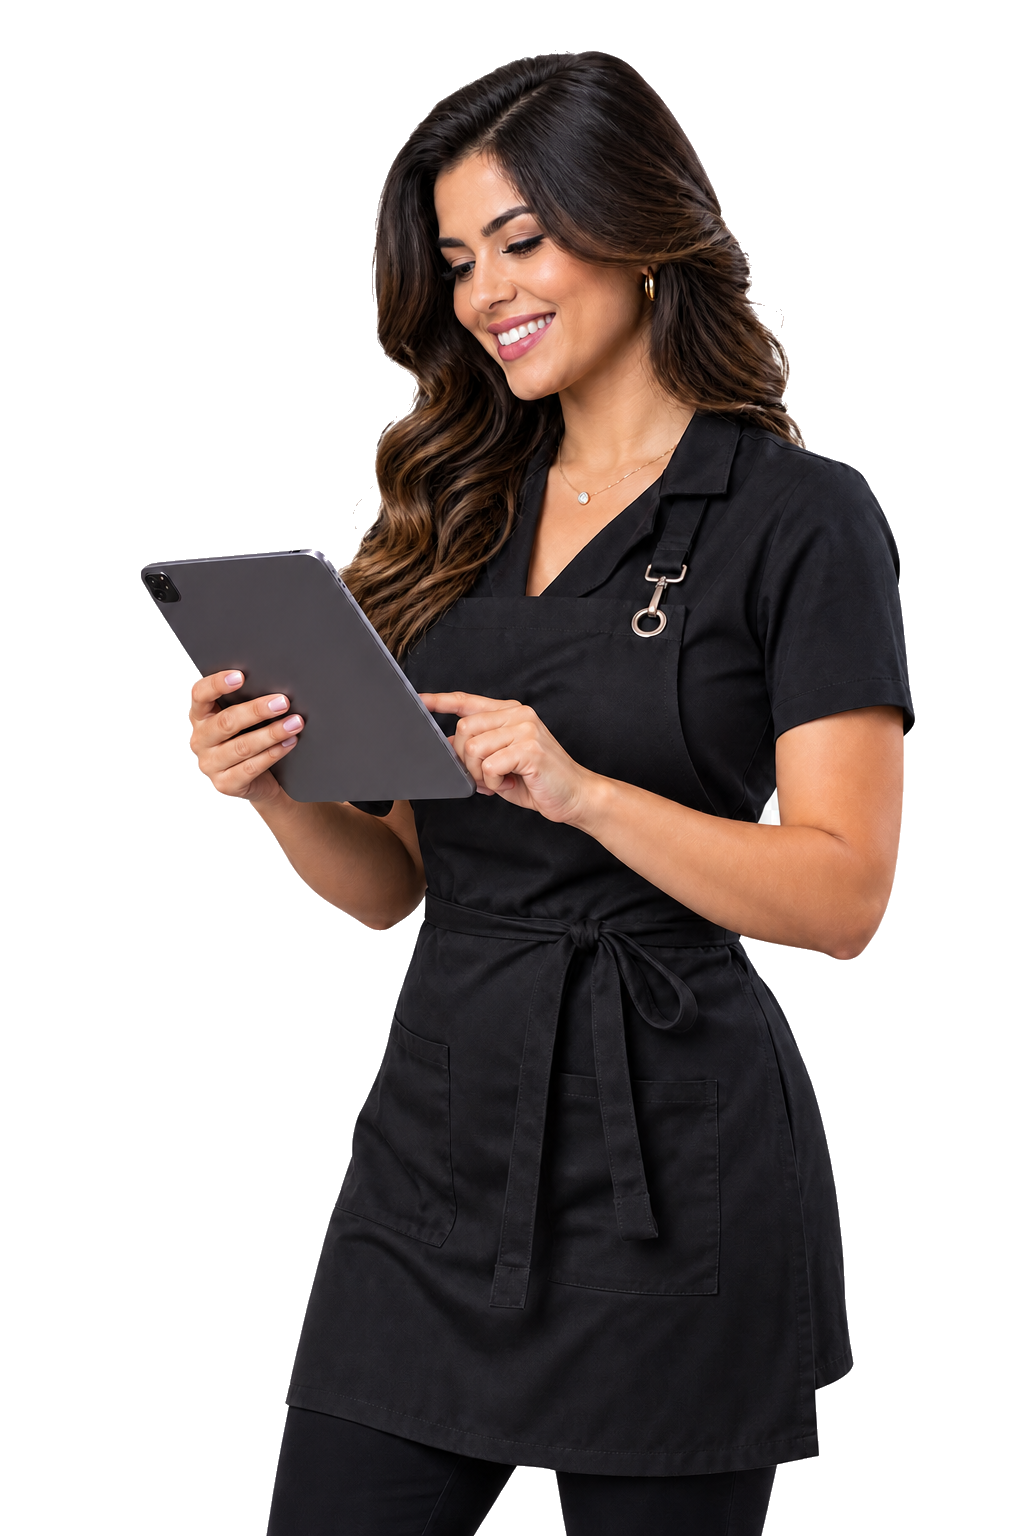
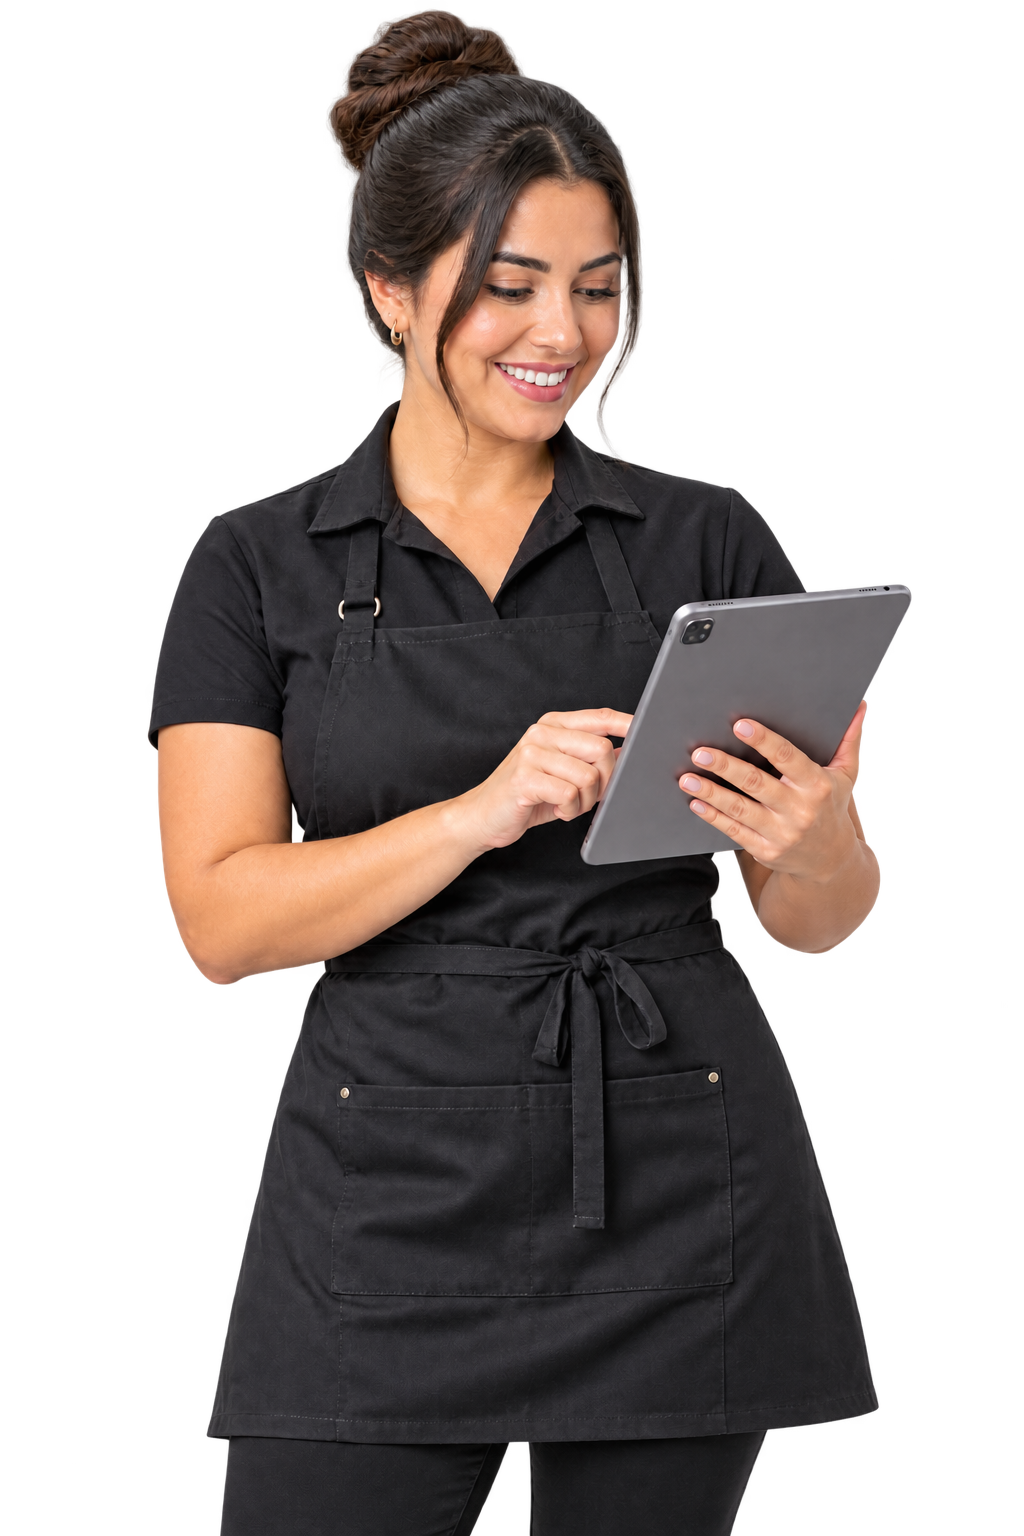
Refine sales landing visual assets

diff --git a/src/pages/public/SalesPage.tsx b/src/pages/public/SalesPage.tsx
@@ -5,7 +5,6 @@ import { motion, useReducedMotion, useScroll, useTransform } from 'framer-motion
 import { useTheme } from 'next-themes';
 import {
   ArrowRightIcon as ArrowRight,
-  BarbellIcon,
   ChartLineUpIcon as BarChart3,
   CalendarCheckIcon as CalendarDays,
   CheckIcon as Check,
@@ -45,6 +44,11 @@ import heroDashboard from '@/assets/sales/vizzu-sales-dashboard-barbershop.png';
 import heroWoman from '@/assets/sales/vizzu-sales-woman-left.png';
 import heroMan from '@/assets/sales/vizzu-sales-man-right.png';
 import mobileDashboard from '@/assets/sales/vizzu-mobile-dashboard.png';
+import marshallsBarberLogo from '@/assets/sales/trusted-logos/marshalls-barber.png';
+import studioBeautyLogo from '@/assets/sales/trusted-logos/studio-beauty.png';
+import clinicaBemEstarLogo from '@/assets/sales/trusted-logos/clinica-bem-estar.png';
+import petCareLogo from '@/assets/sales/trusted-logos/petcare.png';
+import fitnessClubLogo from '@/assets/sales/trusted-logos/fitness-club.png';
 import type { PlanConfig } from '@/types/superAdmin';
 import { DEFAULT_PUBLIC_PLANS } from '@/lib/publicPlans';
 
@@ -125,11 +129,11 @@ const proofHighlights = [
 ];
 
 const trustedBusinesses = [
-  { name: 'Marshalls', detail: 'BARBER', icon: ScissorsIcon, style: 'font-serif tracking-[0.08em]' },
-  { name: 'Studio Beauty', detail: 'BEAUTY', icon: FlowerLotusIcon, style: 'font-serif' },
-  { name: 'CLÍNICA', detail: 'BEM ESTAR', icon: StethoscopeIcon, style: 'tracking-[0.08em]' },
-  { name: 'PetCare', detail: 'CLÍNICA VETERINÁRIA', icon: PawPrintIcon, style: 'font-serif' },
-  { name: 'fitness', detail: 'CLUB', icon: BarbellIcon, style: 'tracking-[0.08em]' },
+  { name: 'Marshalls Barber', logo: marshallsBarberLogo },
+  { name: 'Studio Beauty', logo: studioBeautyLogo },
+  { name: 'Clínica Bem Estar', logo: clinicaBemEstarLogo },
+  { name: 'PetCare Clínica Veterinária', logo: petCareLogo },
+  { name: 'Fitness Club', logo: fitnessClubLogo },
 ];
 
 const heroMessages = [
@@ -245,7 +249,7 @@ const HeroShowcase = () => {
         <motion.img
           src={heroDashboard}
           alt="Dashboard VIZZU com agenda, indicadores e gestão financeira"
-          className="w-[92%] max-w-[900px] rounded-xl object-contain shadow-[0_32px_70px_-38px_rgba(15,47,107,0.48)] sm:w-[88%] sm:rounded-2xl xl:w-[86%]"
+          className="w-[104%] max-w-[1080px] rounded-xl object-contain shadow-[0_32px_70px_-38px_rgba(15,47,107,0.48)] sm:w-[103%] sm:rounded-2xl xl:w-[106%]"
           initial={reduceMotion ? false : { opacity: 0, scale: 0.97 }}
           animate={{ opacity: 1, scale: 1 }}
           transition={{ duration: 0.72, delay: 0.08, ease: [0.22, 1, 0.36, 1] }}
@@ -260,7 +264,7 @@ const HeroShowcase = () => {
         <img
           src={heroWoman}
           alt="Profissional utilizando o VIZZU em um tablet"
-          className="h-full w-auto -scale-x-100 object-contain"
+          className="h-full w-auto object-contain"
         />
       </motion.div>
       <motion.div
@@ -319,7 +323,7 @@ const SalesPage = () => {
     if (reduceMotion) return undefined;
     const messageTimer = window.setInterval(() => {
       setHeroMessageIndex((current) => (current + 1) % heroMessages.length);
-    }, 4200);
+    }, 7000);
     return () => window.clearInterval(messageTimer);
   }, [reduceMotion]);
 
@@ -358,7 +362,7 @@ const SalesPage = () => {
         </div>
       </header>
       <main>
-        <section className="relative isolate overflow-hidden px-4 pb-12 pt-7 sm:px-6 sm:pt-10 lg:min-h-[720px] lg:pb-16">
+        <section className="relative isolate overflow-hidden px-4 pb-6 pt-7 sm:px-6 sm:pb-8 sm:pt-10 lg:min-h-[680px] lg:pb-8">
           <div className="pointer-events-none absolute inset-0 -z-20 bg-white dark:bg-[radial-gradient(circle_at_16%_18%,rgba(37,99,235,0.2),transparent_34%),radial-gradient(circle_at_84%_10%,rgba(99,102,241,0.16),transparent_30%),linear-gradient(135deg,#020617_0%,#071b3e_50%,#030712_100%)]" />
           <motion.div className="pointer-events-none absolute -left-32 top-10 -z-10 h-96 w-96 rounded-full border border-blue-300/30 dark:border-blue-400/10" animate={reduceMotion ? undefined : { scale: [1, 1.08, 1], x: [0, 18, 0] }} transition={{ duration: 10, repeat: Infinity, ease: 'easeInOut' }} />
           <motion.div className="pointer-events-none absolute -right-28 top-20 -z-10 h-[420px] w-[420px] rounded-full border border-blue-300/30 dark:border-blue-400/10" animate={reduceMotion ? undefined : { scale: [1.08, 1, 1.08], y: [0, 20, 0] }} transition={{ duration: 12, repeat: Infinity, ease: 'easeInOut' }} />
@@ -382,8 +386,8 @@ const SalesPage = () => {
                   </p>
                 </div>
               </div>
-              <div className="relative h-[150px] min-[440px]:h-[125px] sm:h-[140px] lg:h-[178px]">
-                <h1 className="absolute inset-x-0 top-0 z-40 max-w-2xl text-[34px] font-black leading-[1.04] tracking-[-0.045em] min-[440px]:text-4xl sm:text-[42px] lg:text-[44px] xl:text-[48px]">
+              <div className="relative h-[175px] min-[440px]:h-[155px] sm:h-[170px] lg:h-[205px] xl:h-[210px]">
+                <h1 className="absolute inset-x-0 top-0 z-40 max-w-2xl text-balance text-[38px] font-black leading-[0.98] tracking-[-0.055em] min-[440px]:text-[42px] sm:text-[46px] lg:text-[48px] xl:text-[52px]">
                   {heroMessages[heroMessageIndex].first}{' '}
                   <span className="bg-gradient-to-r from-[#2878ef] via-[#1557b8] to-[#0F2F6B] bg-clip-text text-transparent dark:from-blue-300 dark:to-blue-100">
                     {heroMessages[heroMessageIndex].second}
@@ -408,7 +412,7 @@ const SalesPage = () => {
               <HeroShowcase />
             </div>
           </div>
-          <Reveal className="mx-auto mt-8 flex max-w-7xl flex-col gap-6 rounded-2xl border border-blue-100 bg-white px-5 py-5 shadow-[0_16px_44px_-30px_rgba(15,47,107,0.4)] sm:mt-14 sm:px-6 dark:border-white/10 dark:bg-slate-900/70 lg:flex-row lg:items-center lg:gap-8">
+          <Reveal className="mx-auto mt-3 flex max-w-7xl flex-col gap-6 rounded-2xl border border-blue-100 bg-white px-5 py-5 shadow-[0_16px_44px_-30px_rgba(15,47,107,0.4)] sm:mt-6 sm:px-6 dark:border-white/10 dark:bg-slate-900/70 lg:flex-row lg:items-center lg:gap-8">
             <div className="flex shrink-0 flex-col gap-4 sm:flex-row sm:items-center sm:gap-7">
               <div className="flex items-start gap-2.5">
                 <Star className="mt-0.5 h-5 w-5 fill-amber-400 text-amber-400" weight="fill" />
@@ -424,22 +428,22 @@ const SalesPage = () => {
             <div className="hidden h-14 w-px bg-slate-200 lg:block dark:bg-slate-700" />
             <div className="grid flex-1 grid-cols-2 items-center gap-x-5 gap-y-5 sm:grid-cols-3 lg:grid-cols-5">
               {trustedBusinesses.map((business) => (
-                <div key={business.name} className="group flex items-center justify-center gap-2 text-slate-400 grayscale transition duration-300 hover:text-slate-600 hover:grayscale-0 dark:hover:text-slate-200">
-                  <business.icon className="h-7 w-7 shrink-0 opacity-75" weight="duotone" />
-                  <div className="min-w-0 leading-none">
-                    <p className={cn('whitespace-nowrap text-sm font-semibold', business.style)}>{business.name}</p>
-                    <p className="mt-1 whitespace-nowrap text-[7px] font-bold tracking-[0.13em] opacity-75">{business.detail}</p>
-                  </div>
+                <div key={business.name} className="group flex h-14 items-center justify-center px-1">
+                  <img
+                    src={business.logo}
+                    alt={`Logo ${business.name}`}
+                    className="max-h-11 w-full max-w-[150px] object-contain opacity-55 grayscale transition duration-300 group-hover:opacity-85 dark:invert dark:opacity-65 dark:group-hover:opacity-90"
+                  />
                 </div>
               ))}
             </div>
           </Reveal>
 
-          <Reveal className="mx-auto mt-5 grid max-w-7xl gap-4 sm:mt-7 sm:grid-cols-2 lg:grid-cols-4">
+          <Reveal className="mx-auto mt-4 grid max-w-7xl gap-4 sm:mt-5 sm:grid-cols-2 lg:grid-cols-4">
             {proofHighlights.map((item) => <motion.div whileHover={reduceMotion ? undefined : { y: -6 }} key={item.label} className="flex min-h-[238px] flex-col rounded-2xl border border-blue-100 bg-white px-6 py-6 shadow-[0_18px_42px_-26px_rgba(15,47,107,0.45)] dark:border-white/10 dark:bg-slate-900/70"><span className={cn('flex h-12 w-12 shrink-0 items-center justify-center rounded-full shadow-sm', item.color)}><item.icon className="h-6 w-6" weight="duotone" /></span><div className="mt-5"><p className="text-lg font-black text-slate-950 dark:text-white">{item.value}</p><p className="mt-2 text-sm font-bold leading-5 text-slate-800 dark:text-slate-100">{item.label}</p><p className="mt-3 text-xs leading-5 text-slate-500 dark:text-slate-400">{item.detail}</p></div></motion.div>)}
           </Reveal>
 
-          <Reveal className="mx-auto mt-7 flex max-w-7xl flex-col items-start justify-between gap-5 rounded-2xl bg-gradient-to-r from-[#194fae] via-[#286fe7] to-[#17499e] px-7 py-6 text-white shadow-[0_22px_55px_-30px_rgba(29,78,216,0.75)] sm:flex-row sm:items-center">
+          <Reveal className="mx-auto mt-5 flex max-w-7xl flex-col items-start justify-between gap-5 rounded-2xl bg-gradient-to-r from-[#194fae] via-[#286fe7] to-[#17499e] px-7 py-6 text-white shadow-[0_22px_55px_-30px_rgba(29,78,216,0.75)] sm:flex-row sm:items-center">
             <div><p className="text-xl font-black text-white">Pronto para organizar seu negócio e crescer?</p><p className="mt-1 text-sm text-blue-100">Comece agora. São 7 dias grátis e você não precisa cadastrar cartão.</p></div>
             <Button size="lg" variant="secondary" className="shrink-0 rounded-xl !bg-white px-7 font-bold !text-[#174a9e] shadow-lg hover:!bg-blue-50" onClick={() => navigate('/cadastro?plano=trial')}>Testar grátis por 7 dias <ArrowRight className="ml-2 h-4 w-4" /></Button>
           </Reveal>
